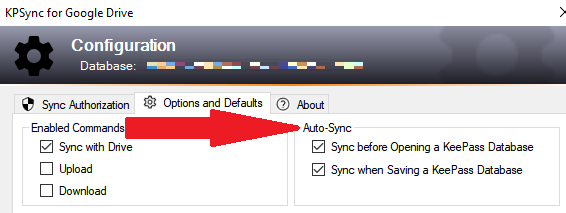
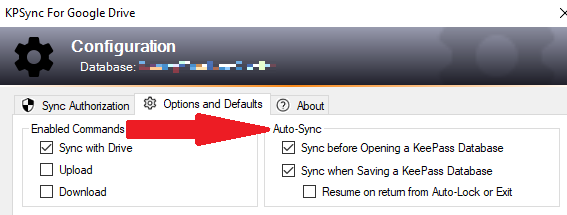
Post-release documentation.

diff --git a/docs/usage/autosync.md b/docs/usage/autosync.md
@@ -29,29 +29,39 @@ and if the **Sync with Drive** function is enabled.
 * **BEWARE:** KeePass features such as [auto-lock](https://keepass.info/help/base/security.html#seclocking) save changes then immediately close the database, preventing the plugin from automatically syncing.  In such cases, you can optionally defer **Auto Sync** until the database is reopened.  For more details, see [**Deferred Auto Sync**](#deferred-auto-sync) below.
 
 ## Deferred Auto Sync
-KeePass' [auto-lock](https://keepass.info/help/base/security.html#seclocking) and similar features interfere with the operation of the **Auto Sync** on **Save** option.  To help ensure minimal impact to **Auto Sync** operations, the plugin implements a "deferred sync" option when interference is detected.
+KeePass' [auto-lock](https://keepass.info/help/base/security.html#seclocking) and related features interfere with the operation of the **Auto Sync** on **Save** option.  To help ensure minimal impact to **Auto Sync** operations, the plugin implements a "deferred sync" option when the condition is detected.
 
 <div class="alert alert-secondary" role="alert">
-Windows offers several built-in login security features, including automatic idle- and other event-based screen locks.  When paired with <em>secure</em> login credentials, these features may be useful alternatives to KeePass' auto-lock.
+Windows offers several built-in login security features, including automatic idle and other event-based screen locks.  When paired with <em>secure</em> login credentials, these features may be useful alternatives to KeePass' auto-lock.
 </div>
 
-KP auto-lock automatically closes databases as a security precaution, based on several different configured criteria (for example, when an idle timer elapses).  When there are unsaved changes to the database and auto-lock is engaged, KeePass runs its **Save** command to save the changes. Unfortunately, KeePass immediately closes the database after this implicit **Save** is complete. 
+KP auto-lock automatically closes databases as a security precaution, based on several configured criteria (for example, when an idle timer elapses).  When there are unsaved changes to the database and auto-lock is engaged, KeePass runs its **Save** command to save the changes. Unfortunately, KeePass immediately closes the database after this implicit **Save** is complete, preventing the plugin from performing its **Auto Sync**. 
 
-Even when **Auto Sync** on **Save** is enabled, the plugin cannot sync the database before KeePass closes it, especially if the auto-lock is performed as part of another security operation, such as a screen lock. The KeePass "save changes on exit" feature is another source of this problem, since not only is the database closed - the KeePass program is also terminated.
+Even though **Auto Sync** on **Save** is enabled, the plugin cannot sync the database before KeePass closes it, especially if the auto-lock is performed as part of another security operation, such as a screen lock. The KeePass "save changes on exit" feature is another source of this problem, since not only is the database closed - the KeePass program itself is terminated.
 
-One way to deal with the issue is to enable the **Auto Sync** on **Open** option.  Thus, when the file is opened after auto-lock, the plugin runs a sync operation.  However, the **Auto Sync** on **Open** option applies to *all*  **Open** commands, rather than only those "reopens" following auto-lock operations that implicitly save changes.
+One way to deal with the issue is to enable the **Auto Sync** on **Open** option.  Thus, when the file is opened after auto-lock, the plugin will run a sync operation.  However, the **Auto Sync** on **Open** option applies to *all*  **Open** commands, rather than only those "reopens" following auto-lock operations that implicitly save changes.
 
-Fortunately, there is another alternative: the plugin is able to detect these problematic sequences.  When such events occur, the plugin marks the database, prior to the save, as a reminder that **Auto Sync** was preempted. When the database is subsequently reopened, the plugin can either:
+Fortunately, there is another alternative.  The plugin is able to detect situations where the sync cannot be performed.  When such events occur, the plugin marks the database, prior to the save, as a reminder that **Auto Sync** was preempted. When the database is subsequently reopened, the plugin can either:
 * Notify you of the condition, and at your discretion proceed with the deferred sync, or 
 * Automatically perform the deferred sync operation without your intervention.
 
-To have the plugin perform deferred sync ops automatically when the database is reopened, enable the **Resume on return from Auto-Lock** option.  
+The first option will display the message below when an auto-locked or saved-on-exit database is reopened.  Usually the safest response is to click **Yes**, however you may be aware of changes sync'ed on other devices that might cause interference.  Clicking **No** allows you to review the contents of the database before syncing later:
+
+{:refdef: style="text-align: center;"}
+![Auto Sync Resume Dialog](/assets/img/auto-sync-resume-query.png)
+{: refdef}
+
+To have the plugin perform deferred sync ops automatically when the database is reopened, enable the **Resume on return from Auto-Lock** option.  Essentially this is the same as the plugin automatically clicking **Yes** to the dialog above.  You can select this option on the Configure dialog as shown:
+
+{:refdef: style="text-align: center;"}
+![Auto Sync Auto Resume](/assets/img/auto-sync-resume-auto.png)
+{: refdef}
 
 <div class="alert alert-secondary" role="alert">
-Note that the <b>Resume on return from Auto-Lock</b> checkbox is only enabled when the <b>Auto Sync</b> on <b>Save</b> option is enabled.
+Note: The <b>Resume on return from Auto-Lock</b> checkbox is only enabled when the <b>Auto Sync</b> on <b>Save</b> option is enabled.  The **Resume on return...** option was first available in version 4.0.7-beta.
 </div>
 
-If the resume option is not enabled, the plugin will instead show a message window, allowing you to decide whether or not to perform the deferred sync.
+Disabling the resume option causes the plugin to revert to showing the message window each time the deferred sync condition is detected upon reopen.
 
 
 

diff --git a/docs/notices/kp2-48-save.md b/docs/notices/kp2-48-save.md
@@ -6,7 +6,9 @@ author: walterpg
 date: May 9, 2021
 ---
 
-Users are advised to **avoid using KeePass v2.48** with the plugin.  If you [experience the problem](#detecting-the-problem) outlined in this document, please try the [workaround](#possible-workaround) given below.  To avoid the problem, [please use another KeePass release](#use-a-different-keepass-release), or discontinue using the plugin.
+Users are advised to **avoid using KeePass v2.48**.  If you have KeePass v2.48 installed, we recommend upgrading to [v2.48.1](https://keepass.info/news/n210507_2.48.html) (or later) immediately.
+
+If you [experience the problem](#detecting-the-problem) outlined in this document, please try the [workaround](#possible-workaround) given below.  If upgrading to KeePass v2.48.1 is not a viable option, [please use another KeePass release](#use-a-different-keepass-release), or discontinue using the plugin.
 
 ## The Issue
 
@@ -16,11 +18,9 @@ If you experience this problem, you may be able to recover the database by follo
 
 ## Use a Different KeePass Release
 
-To continue using the plugin safely, please install an [earlier or later](https://sourceforge.net/projects/keepass/files/KeePass%202.x/) KeePass release.  As of the 4.0.6-beta release, the plugin supports KeePass releases from v2.35 through v2.47.  Though not recommended, you may otherwise consider installing a plugin release other than the effected release versions listed below.
+Users of KeePass v2.48 should upgrade to KeePass v2.48.1 immediately.  Otherwise, to continue using the plugin safely, please install an [earlier or later](https://sourceforge.net/projects/keepass/files/KeePass%202.x/) KeePass release.  As of the 4.0.6-beta release, the plugin supports KeePass releases from v2.35 through v2.47.  Though not recommended, you may otherwise consider installing a plugin release other than the effected release versions listed below.
 
-It is believed that this defect first appeared in KeePass v2.48.  It effects the following plugin releases:
-* [4.0.5-beta](https://github.com/walterpg/google-drive-sync/releases/tag/v4.0.5-beta)
-* [4.0.6-beta](https://github.com/walterpg/google-drive-sync/releases/tag/v4.0.6-beta)
+It is believed that this defect first appeared in KeePass v2.48.  It effects all plugin releases from v4.0.5-beta.
 
 ## Detecting the Problem
 

diff --git a/docs/install/config.md b/docs/install/config.md
@@ -216,9 +216,7 @@ used with the plugin, and default settings for new databases.
 [**Enabled Commands**](../usage/enabled-cmds) lets you choose the commands
 you want to use with the plugin, and the commands you would rather disable.
 
-The [**Auto Sync**](../usage/autosync) group are options to completely
-automate the [Sync with Drive](../usage/sync) command by invoking it
-automatically when Saving or Opening a database.
+The [**Auto Sync**](../usage/autosync) group are options to automate the [Sync with Drive](../usage/sync) command by invoking it automatically when Saving or Opening a database.  The **Resume on return from Auto-Lock or Exit** option is enabled when the **Auto Sync** on **Save** option is selected, and when selected it automatically ensures that KP ops that save-then-close are still processed by **Auto Sync** on reopen.  For more details, see the [Deferred Sync](/usage/autosync#deferred-auto-sync) topic.
 
 The **Default Drive Authorization Token Handling** effect how the plugin
 saves authorization tokens in *new* databases, and how it reacts to finding

diff --git a/docs/index.md b/docs/index.md
@@ -7,7 +7,7 @@ title: KPSync for Google Drive™
     <div>
         <a href="/notices/kp2-48-save">KeePass v2.48 <b>Save</b> Command Bug</a>
     </div>
-    KeePass 2.48 contains a bug which could cause <b>DATA LOSS</b> when used with the plugin.  Users are advised to avoid this KeePass release. If you are affected by the bug 
+    KeePass 2.48 includes a defect which could cause <b>DATA LOSS</b> when used with the plugin.  Users are advised to upgrade immediately to <a href="https://keepass.info/news/n210507_2.48.html">KeePass 2.48.1</a> or later. If you are affected by the bug 
     <a href="/notices/kp2-48-save">please read this notice</a> for possible recovery of your data.
 </div>
 

diff --git a/docs/usage/enabled-cmds.md b/docs/usage/enabled-cmds.md
@@ -10,7 +10,7 @@ title: Enable or Disable Commands
 The Problem: the
 [**Sync with Drive**](sync) command is directly adjacent to the 
 [**Upload to Drive**](upload)
-command, and an accidental slip of the mouse might end in a minor catastrophe.
+command on the plugin menu, and an accidental slip of the mouse might end in a minor catastrophe.
 
 To help avoid that hazard, you can enable the commands you use most, and 
 disable those you don't.  
